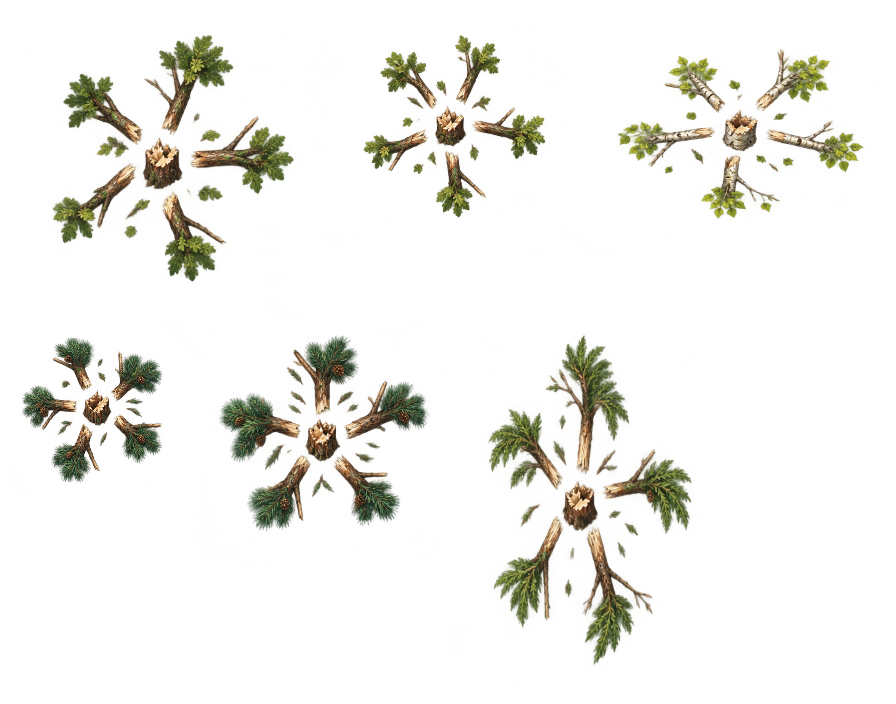
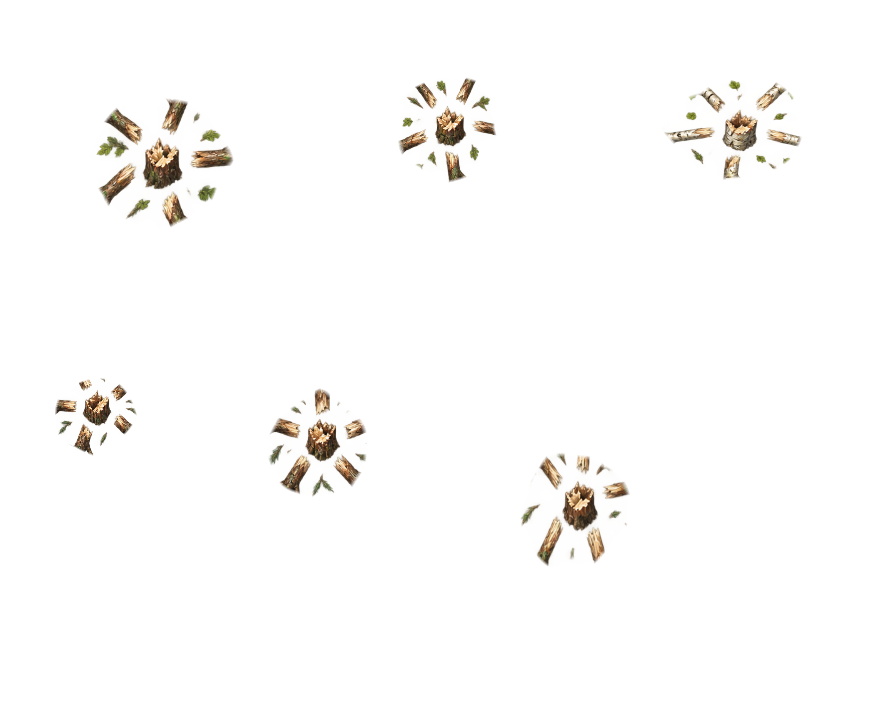
Felled live trees lie flattened too: forest-destroyed-flatten.py keeps each stump and its limb butts from the accepted generation, so a crushed young tree reads as ground a vehicle drives over; blight felled wood re-baked from it

diff --git a/art-source/tilesets/forest-destroyed-flatten.py b/art-source/tilesets/forest-destroyed-flatten.py
@@ -1,0 +1,67 @@
+"""Flattens the felled trees of forest-destroyed.raw.png into forest-destroyed-flat/forest-destroyed.flat.png, the sheet
+the tileset exports.
+
+A felled tree is ground a vehicle drives over (a heavy hull crushes young and creep-killed trees), and the accepted
+generation's long fallen limbs read as a tree still lying in the way (owner, 2026-10-25: "crushed trees maybe we just
+remove the limbs or make them smaller"). Each cut keeps its stump and the butts of its limbs, broken off at a ragged
+line FLAT_REACH of the way out from the cut's centre (its pivot: cuts are full-frame and centred), and drops the rest.
+The limbs of the destroyed guide lie apart from the stump, so the butts are short stubs.
+
+forest-destroyed.raw.png is the accepted generation and is never altered; the script reads it back, so it can be
+re-run. The authoring document's sheet points at the flattened sheet; export with
+`tools/authoring.cmd tileset_export -` and `{"name":"forest-destroyed"}`, then re-bake the blight's felled wood
+(`gradlew.bat bakeCreepBlight`), which is derived from the exported sheet.
+usage: python art-source/tilesets/forest-destroyed-flatten.py
+"""
+import json
+from pathlib import Path
+
+import numpy as np
+from PIL import Image
+
+HERE = Path(__file__).resolve().parent
+RAW = HERE / "forest-destroyed.raw.png"
+# A folder of its own: every PNG directly under tilesets/ is listed as raw art awaiting a document.
+FLAT = HERE / "forest-destroyed-flat" / "forest-destroyed.flat.png"
+DOC = HERE / "forest-destroyed.tileset-authoring.json"
+# How far out the limbs break, as a share of the cut's half-size, and how ragged the break runs either way.
+FLAT_REACH = 0.40
+RAGGED = 0.07
+# The break fades over this share, so a butt's end is not a hard arc.
+FADE = 0.03
+
+
+def ragged(w, h, seed):
+    """Smooth noise in -1..1 over a w x h cut: a coarse random grid, bilinearly upsampled."""
+    rng = np.random.default_rng(seed)
+    grid = rng.uniform(-1.0, 1.0, size=(9, 9)).astype(np.float32)
+    small = Image.fromarray(((grid + 1.0) * 127.5).astype(np.uint8), mode="L")
+    return np.asarray(small.resize((w, h), Image.BILINEAR), dtype=np.float32) / 127.5 - 1.0
+
+
+def main():
+    doc = json.loads(DOC.read_text(encoding="utf-8"))
+    raw = np.asarray(Image.open(RAW).convert("RGBA"), dtype=np.float32)
+    out = np.zeros_like(raw)
+    for k, entry in enumerate(doc["entries"]):
+        x, y, w, h = entry["rect"]
+        cut = raw[y:y + h, x:x + w]
+        half = min(w, h) / 2.0
+        yy, xx = np.mgrid[0:h, 0:w].astype(np.float32)
+        rr = np.hypot(xx + 0.5 - w / 2.0, yy + 0.5 - h / 2.0) / half
+        reach = FLAT_REACH + RAGGED * ragged(w, h, 0xF1A7 + k)
+        keep = np.clip((reach - rr) / FADE + 0.5, 0.0, 1.0)
+        flat = cut.copy()
+        flat[..., 3] *= keep
+        # Cuts may overlap (wider full frames than the panel pitch): keep the more opaque pixel.
+        target = out[y:y + h, x:x + w]
+        take = flat[..., 3] > target[..., 3]
+        target[take] = flat[take]
+    Image.fromarray(np.clip(out, 0, 255).astype(np.uint8), mode="RGBA").save(FLAT)
+    doc["sheet"] = "art-source/tilesets/" + FLAT.parent.name + "/" + FLAT.name
+    DOC.write_text(json.dumps(doc, indent=2) + "\n", encoding="utf-8")
+    print(f"wrote {FLAT} and pointed {DOC.name} at it")
+
+
+if __name__ == "__main__":
+    main()

diff --git a/art-source/forests/README.md b/art-source/forests/README.md
@@ -9,7 +9,7 @@ three cells gives a crown room to fit. One drag is one undoable stroke.
 the canopy are impassable, including leaves and branches away from the trunk.
 Erasing excludes those cells from placement, so a cleared path has no canopy
 overhang. Intact and damaged crowns are opaque obstacles. Combat can fell a
-whole tree, leaving low broken trunks and branches and releasing its canopy
+whole tree, leaving a low broken stump and the short butts of its limbs and releasing its canopy
 cells wherever no surviving tree or hill still obstructs them.
 
 The example `woodland.forest.json` is a 96x54 woodland with an open central lane.
@@ -58,6 +58,13 @@ prompts and reviewed crop documents live in
 `art-source/tilesets/forest-damaged.*` and `forest-destroyed.*`.
 The generated sheets retained the 1536x1024 canvas; reviewed cuts include
 branch tips and empty margins without alpha trimming or recentering.
+The felled trees ship flattened (owner, 2026-10-25): a heavy hull drives over
+them, and the generation's long fallen limbs read as a tree still in the way.
+`art-source/tilesets/forest-destroyed-flatten.py` keeps each cut's stump and
+the butts of its limbs, broken at a ragged line 40% out, into
+`forest-destroyed-flat/forest-destroyed.flat.png`, which the authoring document exports; the accepted
+`forest-destroyed.raw.png` is never altered. Re-bake the blight's felled wood
+(`gradlew.bat bakeCreepBlight`) after exporting.
 
 Export each with `tools/authoring.cmd tileset_export -` and JSON
 `{"name":"forest-damaged"}` or `{"name":"forest-destroyed"}` on stdin.

diff --git a/roadmap/combat-durability/design/combat-durability-nouns.md b/roadmap/combat-durability/design/combat-durability-nouns.md
@@ -178,7 +178,8 @@ that fixture. Original ground and permanent terrain remain.
 Trees use the same weapon-authored structural damage channel, with one pool
 per tree across all its canopy cells. A blast spends damage once per tree,
 including where crowns overlap. Surviving damage exposes broken limbs but
-retains the full obstruction. Felling leaves low broken trunks and branches;
+retains the full obstruction. Felling leaves a low broken stump and the short butts of its limbs,
+flat enough to read as ground a vehicle drives over;
 only cells free of surviving crowns and underlying hills reopen. Original
 ground and permanent terrain remain, and neither actor durability nor
 building collapse owns these changes.
